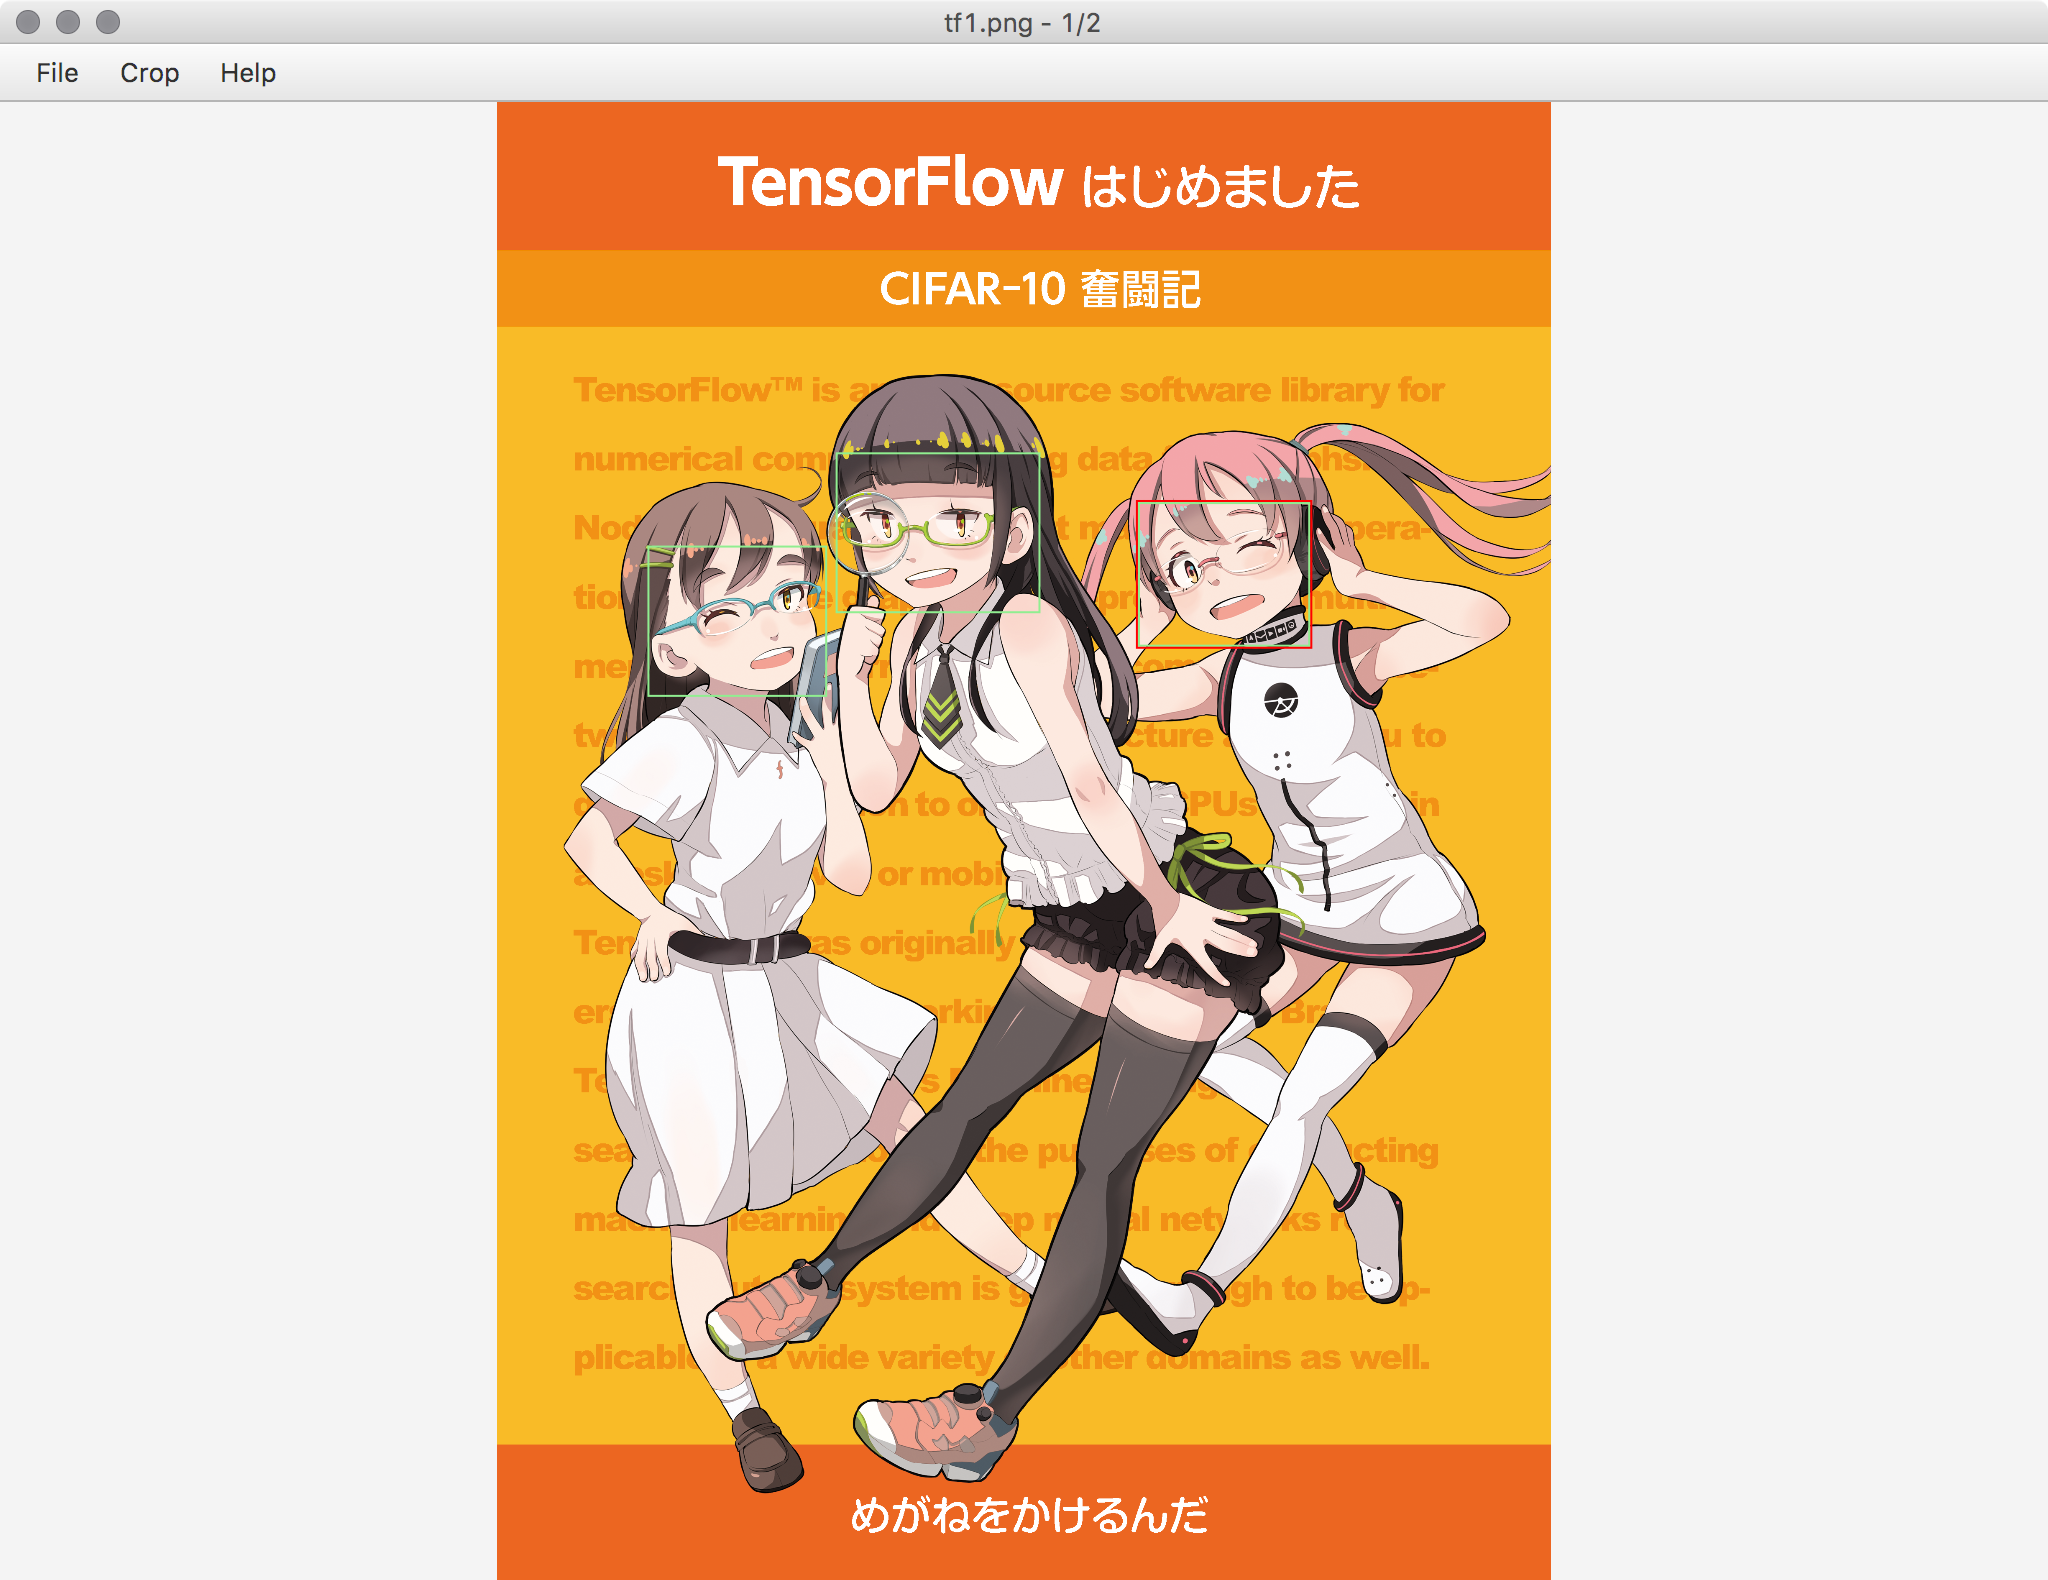
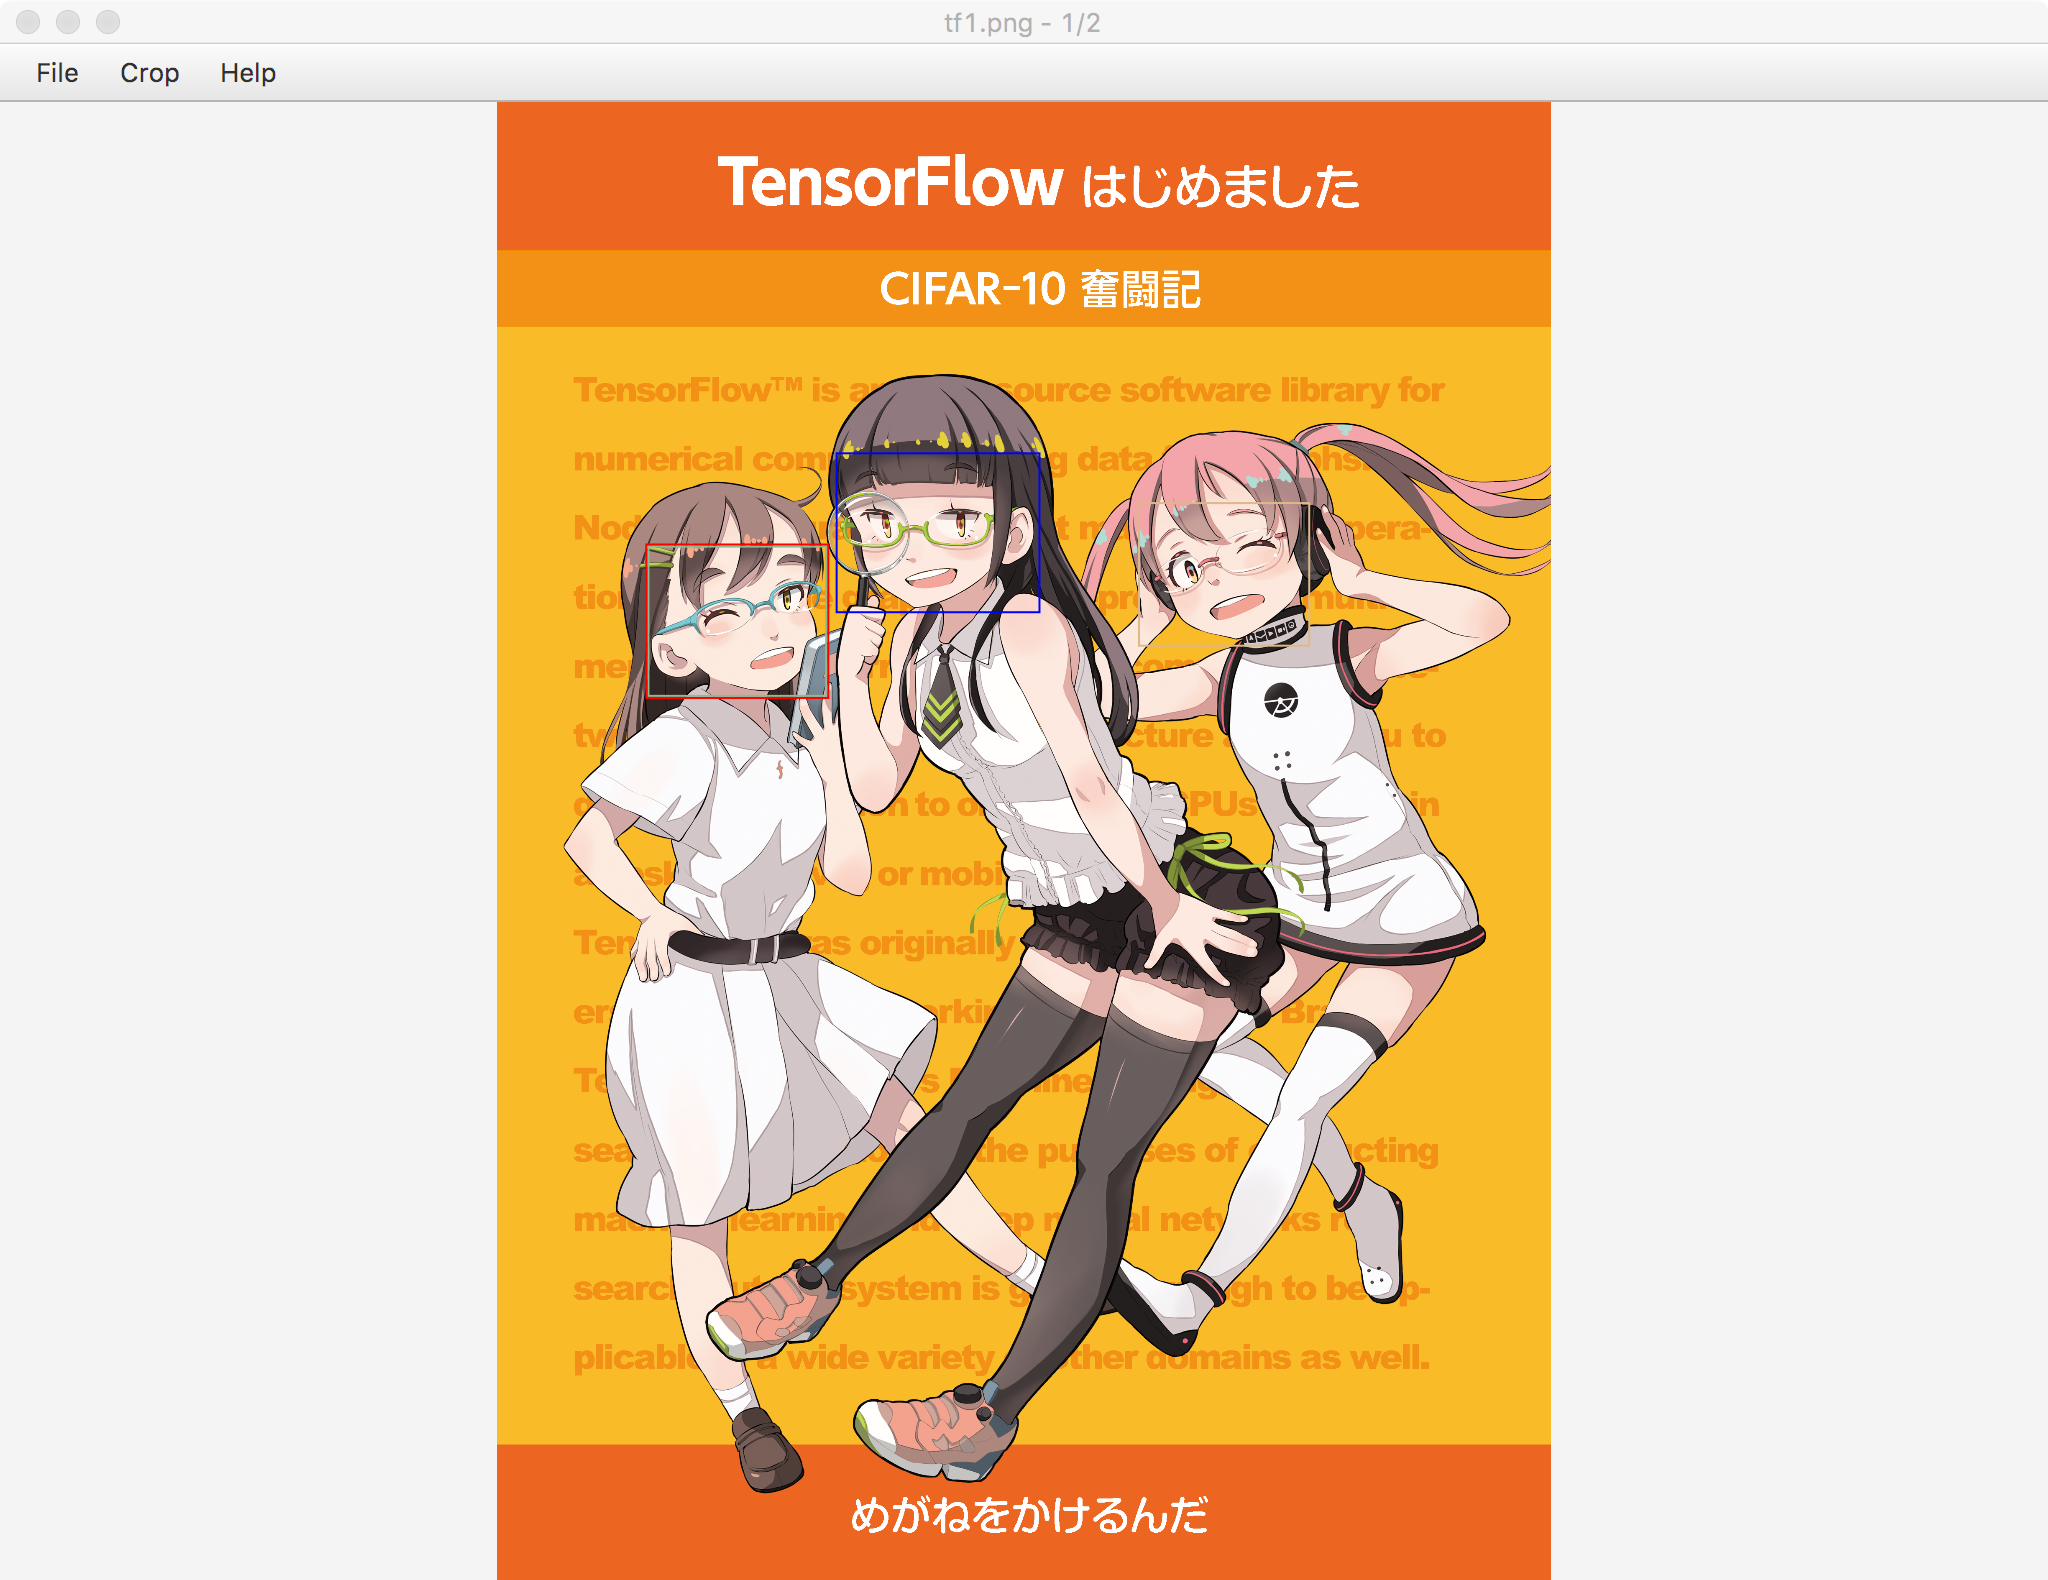
ドキュメントを修正した。

Changed region(s): [[0.0, 0.0, 1.0, 0.031], [0.3125, 0.3411, 0.4062, 0.3722]]

diff --git a/README.md b/README.md
@@ -26,6 +26,10 @@
 
 ![Set Region](images/set_region.png)
 
+スペース（Space）キーを押すと、選択中の領域以外の場所がグレーアウトされます。
+
+![Set Region](images/focus_region.png)
+
 | キー | 動作 |
 |:-----------|:------------|
 | Enter | 次の領域へ移動。最後の領域であれば次のファイルを表示 |
